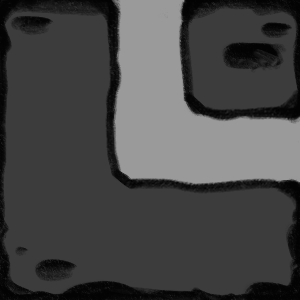
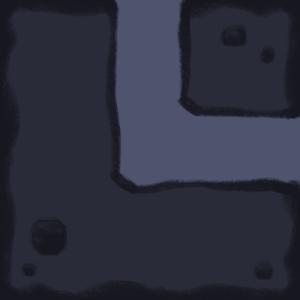
fix textures

diff --git a/src/scenes/Preloader.ts b/src/scenes/Preloader.ts
@@ -65,10 +65,11 @@ export class Preloader extends Scene
         this.load.image('shroom_1101', 'assets/images/tiles/griby3.png');
         this.load.image('shroom_1111', 'assets/images/tiles/griby4.png');
 
-        this.load.image('hole_0100', 'assets/images/tiles/hole1.png');
-        this.load.image('hole_1100', 'assets/images/tiles/hole2.png');
-        this.load.image('hole_0111', 'assets/images/tiles/hole3.png');
-        this.load.image('hole_1111', 'assets/images/tiles/hole4.png');
+        this.load.image('hole_0000', 'assets/images/tiles/hole1.png');
+        this.load.image('hole_0100', 'assets/images/tiles/hole2.png');
+        this.load.image('hole_1100', 'assets/images/tiles/hole3.png');
+        this.load.image('hole_0111', 'assets/images/tiles/hole4.png');
+        this.load.image('hole_1111', 'assets/images/tiles/hole5.png');
 
         // ANIMATIONS
         // this.load.atlas('time', 'assets/anim/time.png', 'assets/anim/time.json');
